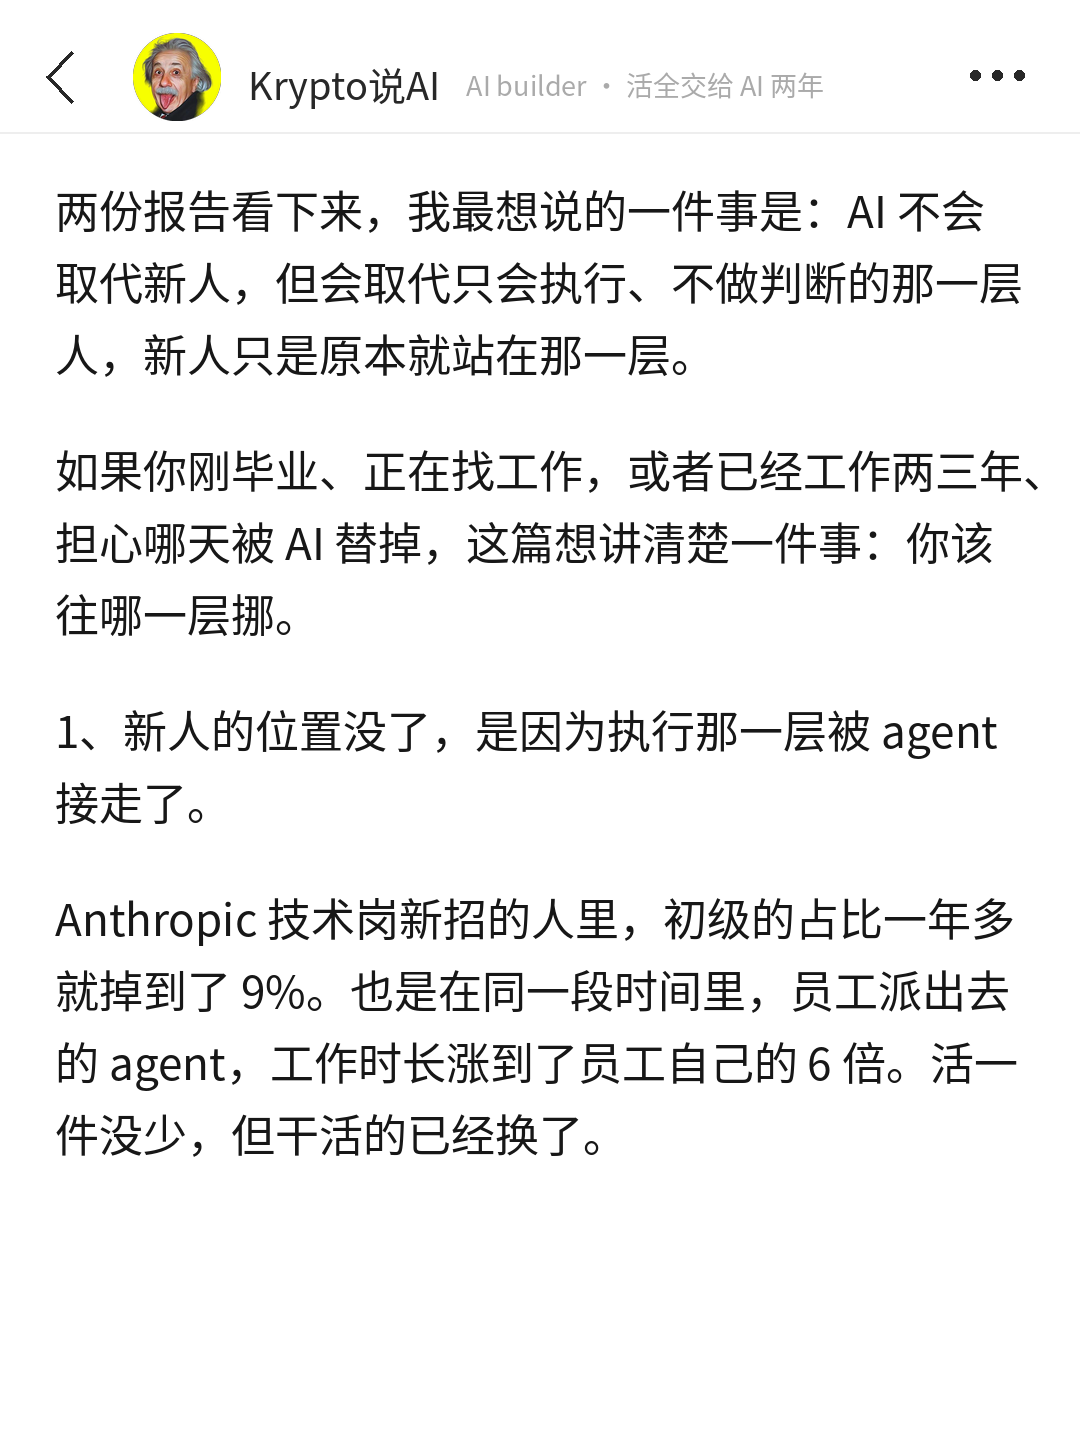
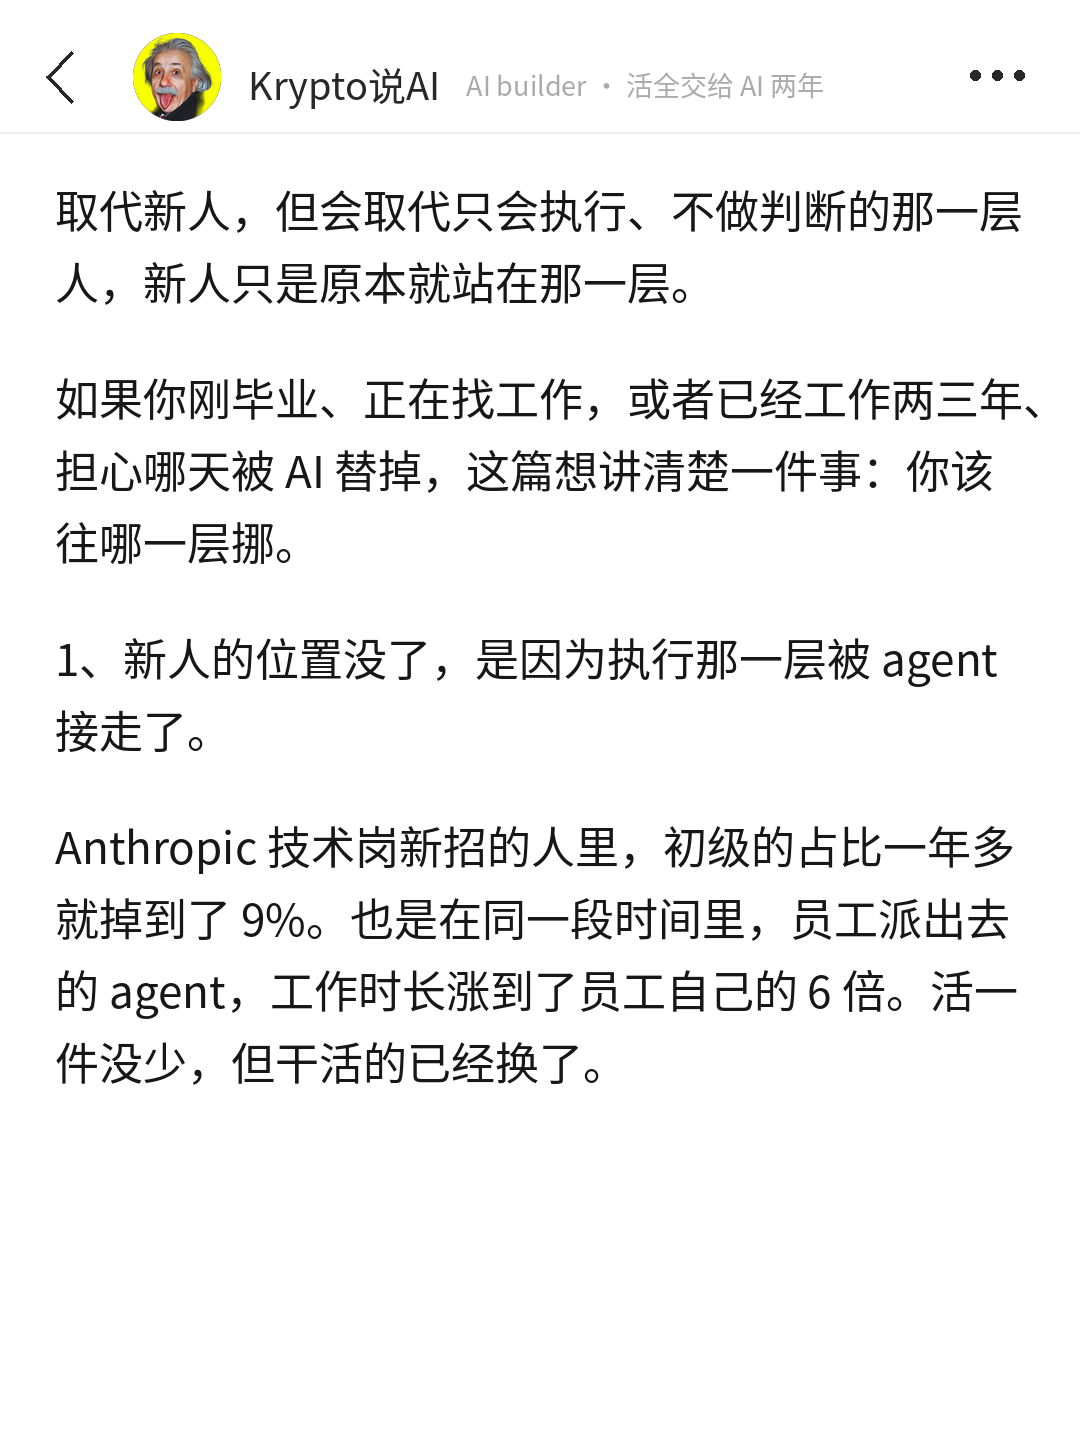
render_meme：首页不再印发布时间（用户定）；Anthropic 就业稿记实际发布 10-18 19:15
Claude-Session: https://claude.ai/code/session_01F7f2EAghug6CLbDqppUVjD

Changed region(s): [[0.0306, 0.125, 0.9472, 0.8125], [0.4278, 0.4375, 0.9167, 0.5312], [0.8556, 0.5625, 0.9472, 0.5938]]

diff --git a/skills/meme-xhs/scripts/render_meme.py b/skills/meme-xhs/scripts/render_meme.py
@@ -37,7 +37,6 @@ draft.md 格式:
   ![说明](chart.png)           ← 图片横向撑满，放不下就挪到下一页
   | 列 | 列 |                  ← 表格
 """
-import datetime
 import math
 import os
 import re
@@ -324,15 +323,14 @@ class Pager:
 
 
 def author_block(im, d, meta, avatar):
-    """头像、账号名、发布时间、发布于。返回这一块的底边。"""
+    """头像、账号名、发布于。返回这一块的底边。"""
     im.paste(circle(avatar, 96), (55, 25), circle(avatar, 96))
     name = meta.get("account", "Krypto说AI")
     d.text((176, 28), name, font=font(38, "Medium"), fill=NAME_ORANGE)
     slogan = meta.get("slogan", SLOGAN)
     if slogan and slogan != "off":
         d.text((176 + font(38, "Medium").getlength(name) + 22, 37), slogan, font=font(27), fill=GREY)
-    d.text((176, 86), meta["time"], font=font(29), fill=GREY)
-    y = 128
+    y = 86                                    # 10-19 起不印发布时间（用户定）：出图时不知道哪天发，印了就对不上
     if meta.get("location"):
         d.text((176, y), "发布于 " + meta["location"], font=font(29), fill=GREY)
         y += 50
@@ -469,8 +467,6 @@ def main(src, out):
     base = os.path.dirname(os.path.abspath(src))
     if meta.get("font") == "serif":
         set_body_font("serif")
-    now = datetime.datetime.now()
-    meta.setdefault("time", f"{now.year % 100}-{now.month}-{now.day} {now:%H:%M}")
     av = os.path.join(base, meta.get("avatar", "avatar.png"))
     if not os.path.exists(av):
         av = os.path.join(HERE, "..", "assets", "avatar.png")

diff --git a/CLAUDE.md b/CLAUDE.md
@@ -3,11 +3,11 @@
 这个仓库是小红书账号 **Krypto说AI** 的工作区，也是它的记忆。在这里做的每一篇稿子，先读本页，再读 `账号/档案.md`、`账号/经历库.md` 和 `账号/爆文方法论.md`（10-14 起，选题 / 标题 / 首图 / 原文跟发的发前清单，交付时逐条写过没过）。每次用户说了新的经历、新的观点、新的规则，写回这两份文件并更新本页摘要，不要只留在对话里。
 
 ## 摘要
-- **10-18 晚 对标 Echo note 回响阅览室，学了三样（用户定「写进 skills」，`对标/Echo note回响阅览室/拆解.md`）**：用户说稿子「像转述、没有个人 IP」。Echo 做海外播客精读，素材全是别人的却不像搬运，靠首尾一个「我」的框。写进 meme-xhs SKILL + writing_guide 6.10、own-xhs、爆文方法论发前清单 2.6：① 首页「我最想说的一件事是：（stance）」，用户真改变过看法才写「改观」；② 紧跟点名读者 + 承诺；③ 结尾「以前 / 现在」（用户真实变化）+ 两类读者各一句。不进 meme_check，验证稿待 3 篇（第 1 篇：10-20 Anthropic 就业稿）。另两样不学：节尾加粗对仗金句（10-02 被认出 AI 的句式）、标题只写情绪不放可搜词（10-18 复盘带名字标题点击率更高）
+- **10-18 晚 对标 Echo note 回响阅览室，学了三样（用户定「写进 skills」，`对标/Echo note回响阅览室/拆解.md`）**：用户说稿子「像转述、没有个人 IP」。Echo 做海外播客精读，素材全是别人的却不像搬运，靠首尾一个「我」的框。写进 meme-xhs SKILL + writing_guide 6.10、own-xhs、爆文方法论发前清单 2.6：① 首页「我最想说的一件事是：（stance）」，用户真改变过看法才写「改观」；② 紧跟点名读者 + 承诺；③ 结尾「以前 / 现在」（用户真实变化）+ 两类读者各一句。不进 meme_check，验证稿待 3 篇（Anthropic 就业稿 10-18 19:15 实际发出去的是试三样之前的版本，不算，下一篇起算）。另两样不学：节尾加粗对仗金句（10-02 被认出 AI 的句式）、标题只写情绪不放可搜词（10-18 复盘带名字标题点击率更高）
 - **10-18 用户定：人设 + 搜索，改进 skill（验证稿待 3 篇）**：平台诊断「强内容弱人设、博主像搬运工、缺持续价值观输出」+「搜索为零、标题前置人名 / 模型名 / 场景词」。改了：① `stance` 所有文体重新必填（撤回 10-06 可选），retell 稿结尾前一段 150–300 字「我」的独家判断、结尾停在我的判断上、「我」上限 6 → 10；② 新增 `stance_line` 必填，回到 `账号/档案.md` 新加的「长期立场」A / B / C / D（AI 取代不做判断的人 / 活整个交给 AI 短板是我 / 稳定听话比惊艳值钱 / 角色边界消失人拍板），写稿前先问加第 ⑤ 问、own 三问加第 4 问；③ render_meme 每页账号名右边一行灰字 slogan「AI builder · 活全交给 AI 两年」（`slogan: off` 关）。**四条立场和 slogan 用户 10-18 确认不改**；④ 可搜词放标题前 6 字（meme_check 超 6 字 ⚠、没有 ✗），中文人名开头放开，前提它就是 keyword（「扎克伯格：……」搜索 3.6% 账号最高），不是 keyword 的专名开头从 ✗ 降 ⚠。改在 meme-xhs SKILL / writing_guide 1.5、6.8、8、8.5 / meme_check / render_meme、own-xhs SKILL + questions、爆文方法论（新「三点五 人设」节、发前清单 2 和 2.5）。按 10-18 回看的规矩这算一撤一加：撤「stance 可选」「retell 结尾一句认同」「专名开头 ✗」，加 stance_line 和前 6 字
 - **10-18 Skills 改动回看**（`复盘/2026-10-18_Skills改动回看_哪些有效哪些没用.md`）：一个月 30 多次改动按改输入 / 改选题 / 改输出分开看。改输入 2 次（写稿前先问、own 三问）后面跟着 2 个爆款；改选题 4 次 2 正 1 负；改输出 20 多次（黑名单、口吻、流畅度、双字动词、每节配图、终稿重写、qualia）0 条被数据证实，qualia 当天回退，10-14 到 10-16 三天三个大改之后 5 篇留人 0 比 4。唯一稳定有效的输出规则是 10-02 的社会证明标题。「骨架是文章就停」会拦掉 Anthropic 爆款，已改两道门槛；「人物稿优先」导致一周连发三篇转述、粉丝停留反降。建议（待用户定）：输出规则只撤不加、每条新规则绑 3 篇稿再定、发布清单复制进标题.txt、终稿重写等 SayType 数据再扩散
 - **10-18 两周数据复盘**（`复盘/2026-10-18_两周数据复盘_Anthropic爆了但没涨粉.md`，60 张截图在 `复盘/2026-10-18_后台数据/`，单篇数回填进 `账号/日志.csv`）：近 7 日曝光 114 万（+106%）、观看 19.9 万。新稿只有 Anthropic 2021 路线图爆了（35 万曝光、点击率 22.5% 历史最高、70 评论），但每千次观看只涨粉 0.7（李录 6.7、Wang 4.6、原文上 16），87% 男性，是看完就走的技术路人；涨粉主力仍是李录和 Wang 的长尾（Wang 四天观看翻倍）。10-14 规则：社会证明成立，但要路人认识的名字（「红杉合伙人」14.9%、无社会证明的野心稿 15.7%）；「骨架是文档就停」被 Anthropic 推翻了曝光那一半、没推翻涨粉那一半；「放量看停留」只对一半（Zuck 56 秒停在 2.5 万曝光）。李录主稿拉来的女性读者这周没一篇接住，李录卖出稿去掉 AI 后来的是 74% 男性、35-44 岁。Zuck、红杉两篇粉丝停留比路人短，大佬转述连发开始腻。Karpathy 发布标题「我已经在头部 0.2%」犯了自称内行。待用户定：选题门槛拆「进门 / 留人」两道、转述稿每周最多 2 篇不连发、每篇碰一句「怕被 AI 淘汰」；建议补发 Anthropic 路线图原文稿。发布时间截图里没有，18:00 那条仍待议
-- **10-18 Anthropic 内部就业报告稿（meme，观察，价值框架，立场 A，排 10-20 18:00）**：素材是 Anthropic 10-16 两份报告（内部就业 + 员工 vs 美国人预期差）和 Peter McCrory 推文串。骨架换成用户自己：今年几乎没招校招生、面试校招生单独考使用和管理 agent（经历库 #26），看板监控做给人看、几天没看就停更漏 bug（#25）。用户新观点「越在头部拥抱 AI 的人越感到被替代的迫切，底部还感受不到」进观点库 #24（归 A）。标题「Anthropic技术岗，新人只招9%」。用户改稿：首页换 Peter McCrory 推特主页截图（人脸）、加面试题变化（feature 全流程 → agent / 自动化工作流）；删「Anthropic 就是做 Claude 的那家公司」「把自己当成了实验田」（用户：人人都知道的常识不用解释，meme_check「没解释 X 是什么」这条对路人皆知的公司可以不管）
+- **10-18 Anthropic 内部就业报告稿（meme，观察，价值框架，立场 A，排 10-20 18:00）**：素材是 Anthropic 10-16 两份报告（内部就业 + 员工 vs 美国人预期差）和 Peter McCrory 推文串。骨架换成用户自己：今年几乎没招校招生、面试校招生单独考使用和管理 agent（经历库 #26），看板监控做给人看、几天没看就停更漏 bug（#25）。用户新观点「越在头部拥抱 AI 的人越感到被替代的迫切，底部还感受不到」进观点库 #24（归 A）。**实际 10-18 19:15 发布**（不是排期的 10-20 18:00），发布标题「强烈推荐看看Anthropic就业报告。」，发的是试 Echo 三样之前的版本。10-19 起 render_meme 首页不再印发布时间（用户定：图上印的是排期时间，提前发就对不上），只留账号名和「发布于 香港」。用户改稿：首页换 Peter McCrory 推特主页截图（人脸）、加面试题变化（feature 全流程 → agent / 自动化工作流）；删「Anthropic 就是做 Claude 的那家公司」「把自己当成了实验田」（用户：人人都知道的常识不用解释，meme_check「没解释 X 是什么」这条对路人皆知的公司可以不管）
 - **10-18 阿里云 AI Agent 白皮书稿（meme，观察，用户「你定」）**：素材是 aliyun/ai-agent-handbook（30 章 + 1906 人调研），骨架是「一篇文档」，按 10-14 门槛换成用户自己的 agent：拿书里「写代码为什么最先落地」的三个条件（结果马上看出好坏 / 范围划好 / 错了代价小）对一遍经历库 #9 #10 #12 #18 #24，Codex 定时 sites 翻车、Grok 早报和 SayType 跑得稳。立场、价值（框架）、骨架都是默认，排 10-19 18:00（回指 SayType 稿，要它先发）。没有新经历入库
 - **10-17 SayType 稿（meme，实测，用户自己的项目）**：Typeless 免费周额度用完被降速，用户周六用 Claude Code 2.5 小时做了 AI 语音输入法 SayType（本地 SenseVoice + DeepSeek）。Typeless 估值没公开，用户想的「估值 10 亿美元」标题不成立，改用对手 Wispr Flow 8 月 B 轮估值 20 亿美元当社会证明（标题「2.5小时，搓出20亿美元同款AI输入法」）。用户定：不讲「护城河很浅」，价值选情绪，结尾放找投资人、出海东南亚，「做投资或在东南亚做产品的朋友可以私信」。截图里的终端用户名、聊天窗口已裁掉或打码。经历库 #23 #24、观点库 #23
 - **10-17 推特 + 公众号发布流程（`/x-wechat`）**：同一篇稿出中文 thread（5 到 10 条，同一个 AI builder 人设）和公众号长文。云端写稿、打包、检查（`thread_check.py`、`render_wechat.py` + `prep_wechat.py`），Mac 上 `publish.py` 发：公众号用接口推进草稿箱（账号已认证），用户去后台勾 AI 标注再点发表；X 在终端列出整条、用户输 y 才发（X API 没有草稿箱）。最后一下由用户点，跟「不代发」对上。云端连不上 X 和微信接口、公众号要 IP 白名单，所以发布不能在云端跑；凭证在 Mac 的 `~/.config/krypto-publish.env`，不进仓库

diff --git a/skills/meme-xhs/SKILL.md b/skills/meme-xhs/SKILL.md
@@ -158,7 +158,6 @@ keyword: 主关键词，读者会在搜索框里打的词（第 6 步定，见 w
 keywords: 副关键词一到三个，逗号隔开
 headline: 首页的一行突出标题，20 字以内（10-14 起：hero 不是人脸时必写）
 hero: 首页标题下的一张素材图（原文截图 / 图表 / 后台截图；没有就不写）
-time: 26-9-29 12:30
 location: 上海
 account: Krypto说AI
 ---
